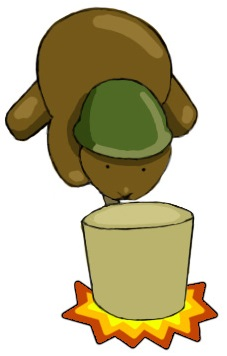
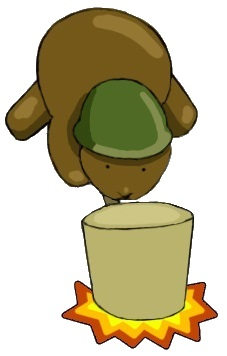
sd

diff --git a/src/whackAMoleKevinSteph/WAMResultStephanie.java b/src/whackAMoleKevinSteph/WAMResultStephanie.java
@@ -129,7 +129,7 @@ public class WAMResultStephanie extends FullFunctionScreen {
 		tpic = new Graphic(340,250,80,80,"wam/ticket.png");
 		viewObjects.add(tpic);
 		
-		mpic = new Graphic(340,350,80,80,"wam/mouse.jpg");
+		mpic = new Graphic(340,350,80,80,"wam/mouse.png");
 		viewObjects.add(mpic);
 		
 		tapic = new Graphic(340,470,80,80,"wam/totalA.png");
